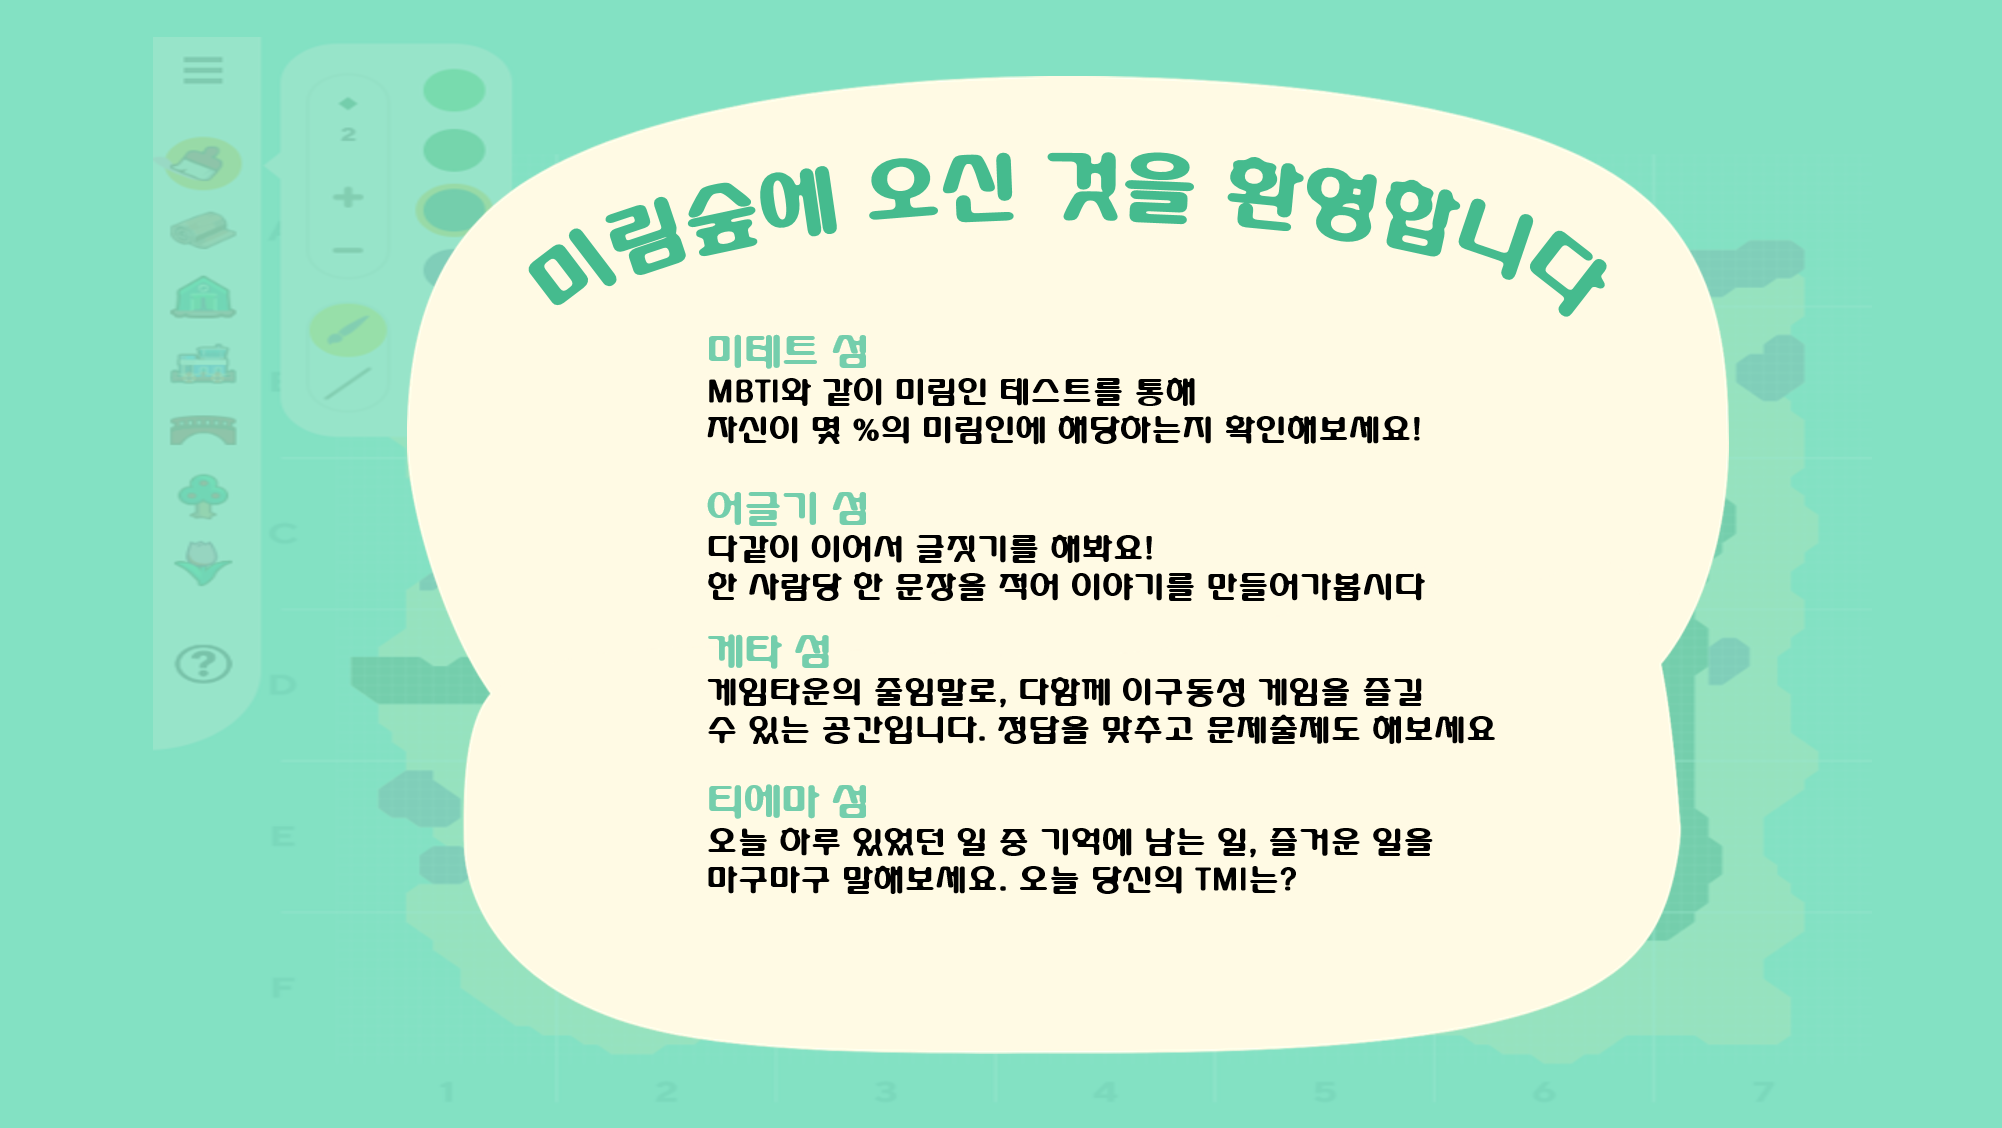
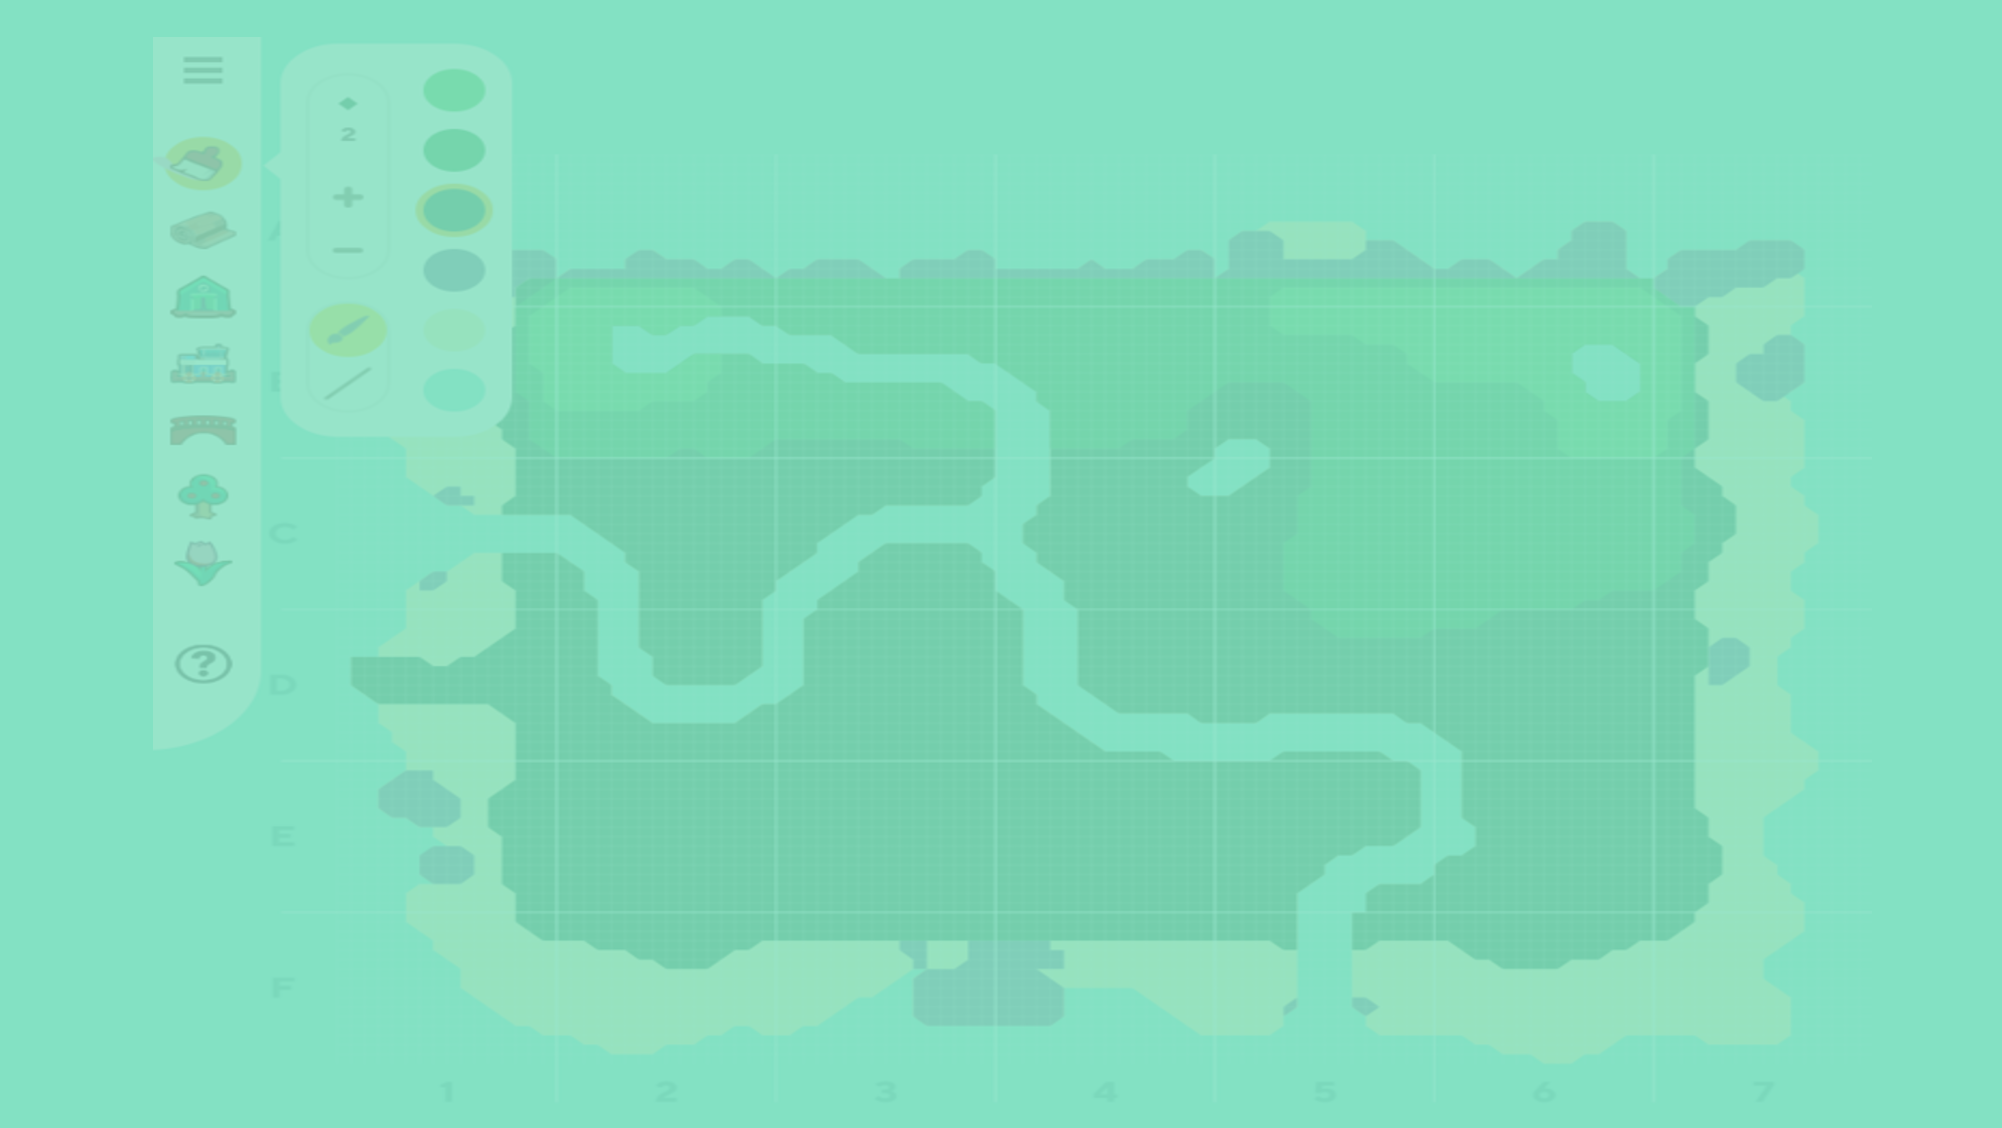
도움말

diff --git a/Help/help.html b/Help/help.html
@@ -6,6 +6,7 @@
         <link rel="stylesheet" type="text/css" href="./help.css"/>
     </head>
     <body>
+        <img id="txtMap" src="../image/Help_imgMap.png">
         <div id="btnBack" onclick="movePage_content()">
             <img src="../image/Game_town_txtBtn.png">
         </div>

diff --git a/Help/help.css b/Help/help.css
@@ -4,8 +4,17 @@ body{
     background-size : cover;
 }
 
+
+
+#txtMap{
+    display: block;
+    margin: 0px auto;
+    height: 20%;
+    margin-top: 2%;
+}
+
 #btnBack{
     float: right;
     margin-right: 3%;
-    margin-top: 45%;
+    margin-top: -1%;
 }
